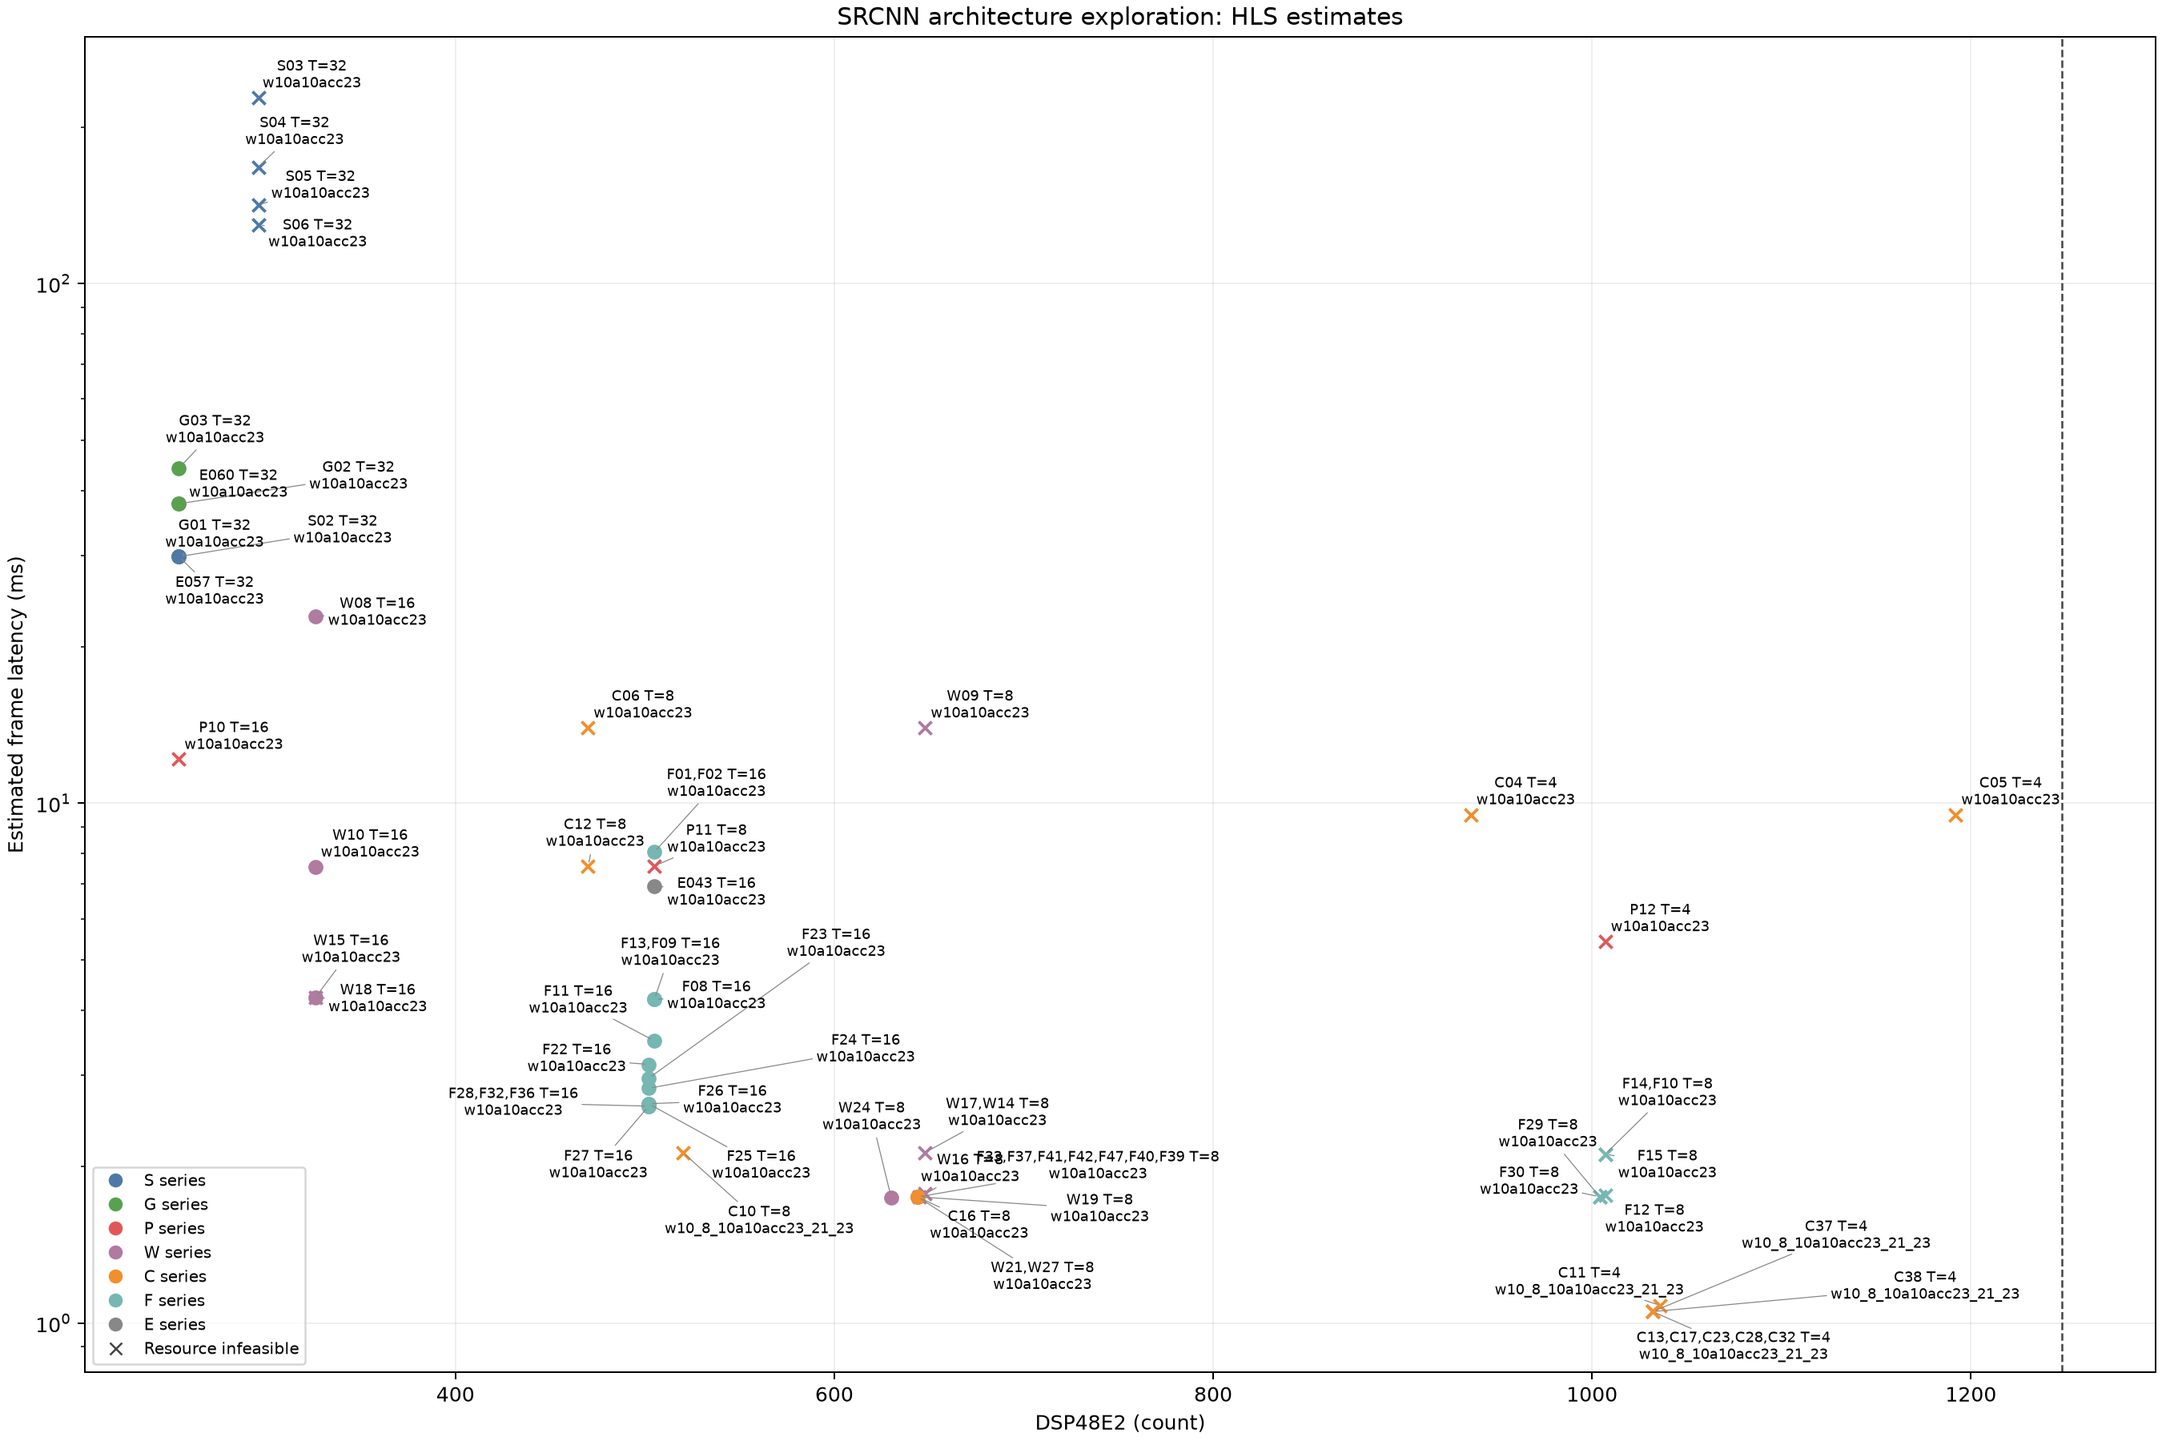
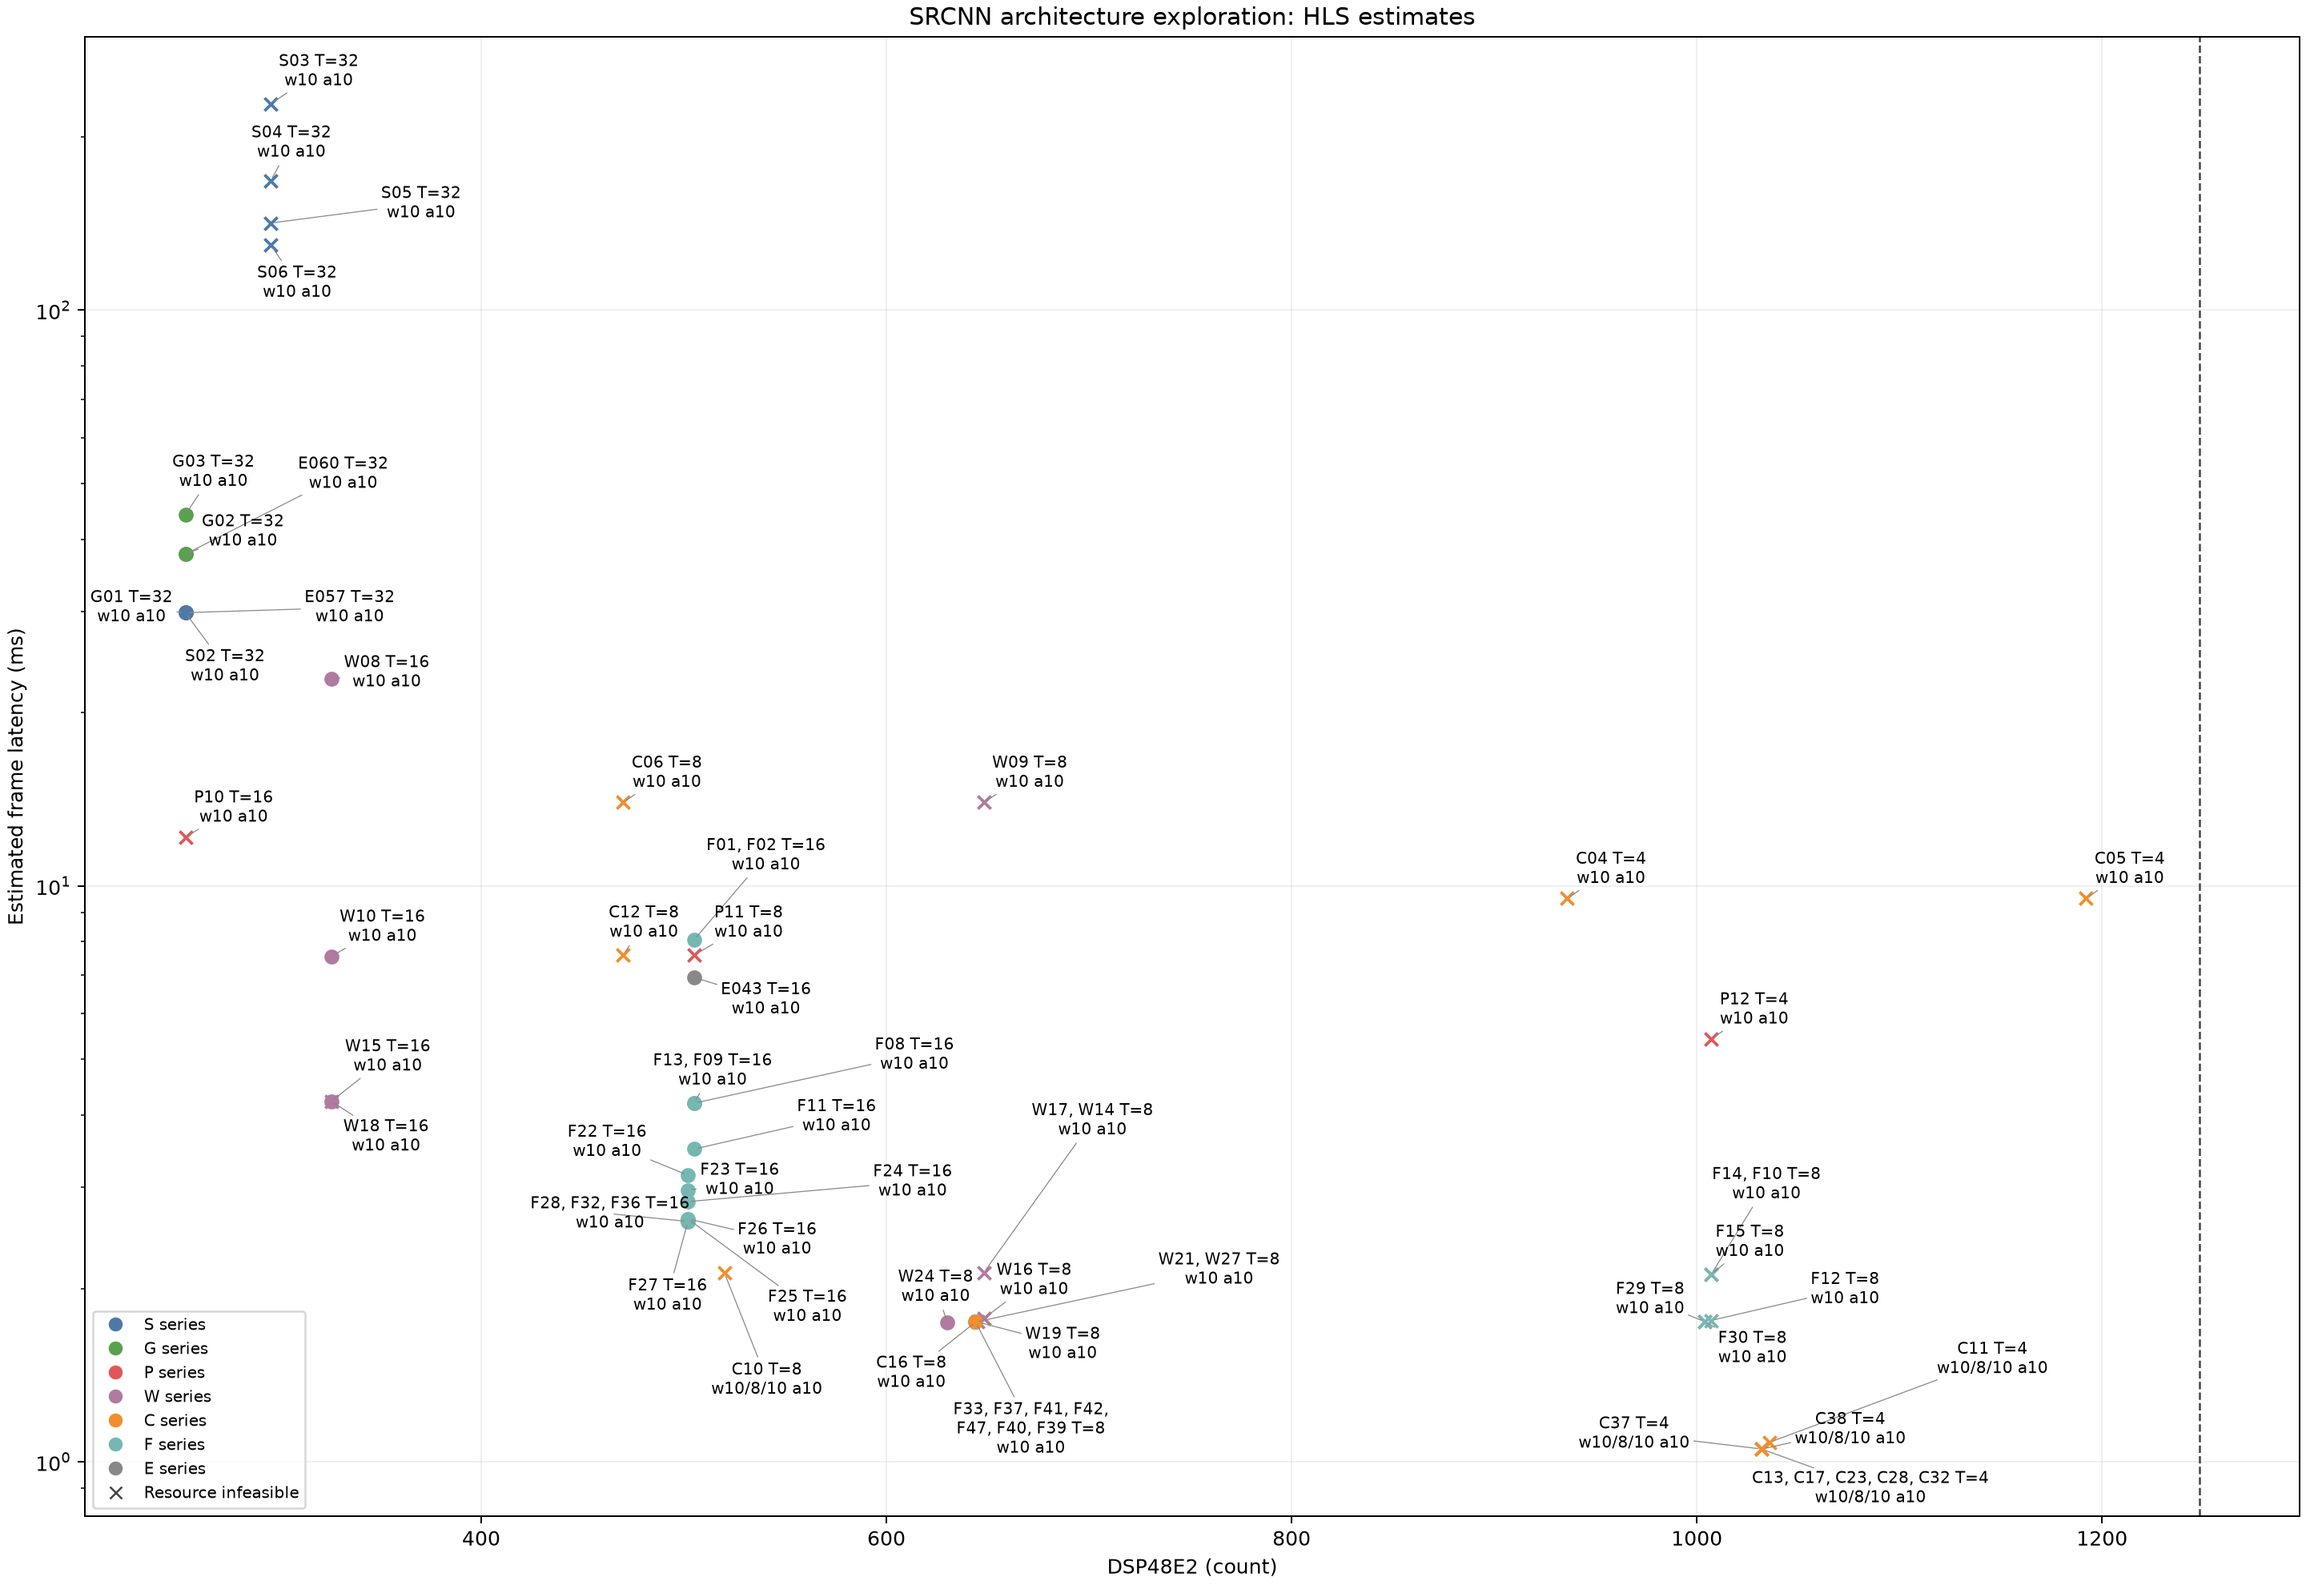
C39 refresh_all_figures_and_readable_architecture_labels

diff --git a/exp/plots/architectures.py b/exp/plots/architectures.py
@@ -2,6 +2,7 @@
 """Regenerate all architecture plots from derived CSV evidence only."""
 import csv
 import math
+import textwrap
 from pathlib import Path
 import matplotlib
 matplotlib.use("Agg")
@@ -14,6 +15,8 @@ ROOT = Path(__file__).resolve().parents[2]
 FIGS = ROOT / "experiments/figs"
 FIGS.mkdir(exist_ok=True)
 COLORS = {"S":"#4e79a7","G":"#59a14f","P":"#e15759","W":"#b07aa1","C":"#f28e2b","F":"#76b7b2","E":"#888888"}
+PRECISION_LABELS = {"w10a10acc23": "w10 a10",
+                    "w10_8_10a10acc23_21_23": "w10/8/10 a10"}
 np.random.seed(1011)
 
 
@@ -39,24 +42,27 @@ frames = [row for row in rows if row["scope"] == "frame" and not row["operation"
           num(row,"latency_ms_est") is not None and num(row,"DSP") is not None and
           row["status"] in {"pass","provisional","infeasible"} and
           (row["series"] or row["id"] in {"E043","E057","E060"})]
-fig,ax = plt.subplots(figsize=(15,10),constrained_layout=True)
+fig,ax = plt.subplots(figsize=(16,11),constrained_layout=True)
 labels,grouped = [],{}
 for row in frames:
     grouped.setdefault((num(row,"DSP"),num(row,"latency_ms_est"),row["series"] or "E",
-                        row["status"] == "infeasible"),[]).append(row)
-for (dsp,latency,series,bad),points in grouped.items():
+                        row["status"] == "infeasible",row["T_target"],
+                        row["precision_w_a_acc"]),[]).append(row)
+for (dsp,latency,series,bad,t,precision),points in grouped.items():
     ax.scatter(dsp,latency,color=COLORS[series],marker="x" if bad else "o",s=42)
-    row = points[0]
-    labels.append(ax.text(dsp,latency,",".join(p["id"] for p in points)+f" T={row['T_target']}\n"+row["precision_w_a_acc"],fontsize=7))
+    ids = textwrap.fill(", ".join(p["id"] for p in points),width=23)
+    labels.append(ax.text(dsp,latency,ids+f" T={t}\n"+
+                          PRECISION_LABELS.get(precision,precision),fontsize=8))
 ax.set(title="SRCNN architecture exploration: HLS estimates",xlabel="DSP48E2 (count)",ylabel="Estimated frame latency (ms)")
 ax.set_yscale("log")
 ax.axvline(1248,color="#444444",linestyle="--",linewidth=1)
 ax.grid(alpha=.2)
-ax.legend(handles=[Line2D([0],[0],marker="o",color=color,linestyle="",label=series+" series") for series,color in COLORS.items()]+
-                  [Line2D([0],[0],marker="x",color="#444444",linestyle="",label="Resource infeasible")],fontsize=8)
+legend = ax.legend(handles=[Line2D([0],[0],marker="o",color=color,linestyle="",label=series+" series") for series,color in COLORS.items()]+
+                   [Line2D([0],[0],marker="x",color="#444444",linestyle="",label="Resource infeasible")],fontsize=8)
 fig.canvas.draw()
 fig.set_layout_engine("none")
-adjust_text(labels,ax=ax,iter_lim=1000,expand=(1.2,1.3),force_text=(.3,.5),
+adjust_text(labels,objects=[legend],ax=ax,iter_lim=1500,expand=(1.3,1.5),
+            force_text=(.3,.5),force_pull=(.004,.004),
             arrowprops={"arrowstyle":"-","color":"#888888","lw":.5})
 save(fig,"architecture_pareto.png")
 

diff --git a/experiments/LOG.md b/experiments/LOG.md
@@ -757,3 +757,5 @@
 
 - 2026-10-13T09:21 UTC C39 scheduling: live W36 synthesis completed and report generation remains active; sole heavy slot is unchanged. Local supervisor86350 waits for W36 metrics/results and committed archive before launching the already committed C39 four-call monitored RTL plan once. C40 remains unlaunched until strict C39 acceptance; W35 still precedes WS-I. Preserve C22's independently verified1.365115ms fallback and all protected/user changes.
 
+- 2026-10-13T09:52 UTC presentation/scheduling: allnine CSV-only plotting scripts reran through C37/C38. The architecture Pareto now uses shorter precision labels, wrapped ID groups and legend avoidance; grouping additionally requires identical T/precision. PNG inspected after the committed docs/0005 plan; measurements and gates are unchanged. Local supervisor6186 rechecks strict committed C39 numerical/AXI/cycle/RTL-hash evidence before launching C40 once. W36 is in initial routing; W35 and final WS-I remain pending.
+
